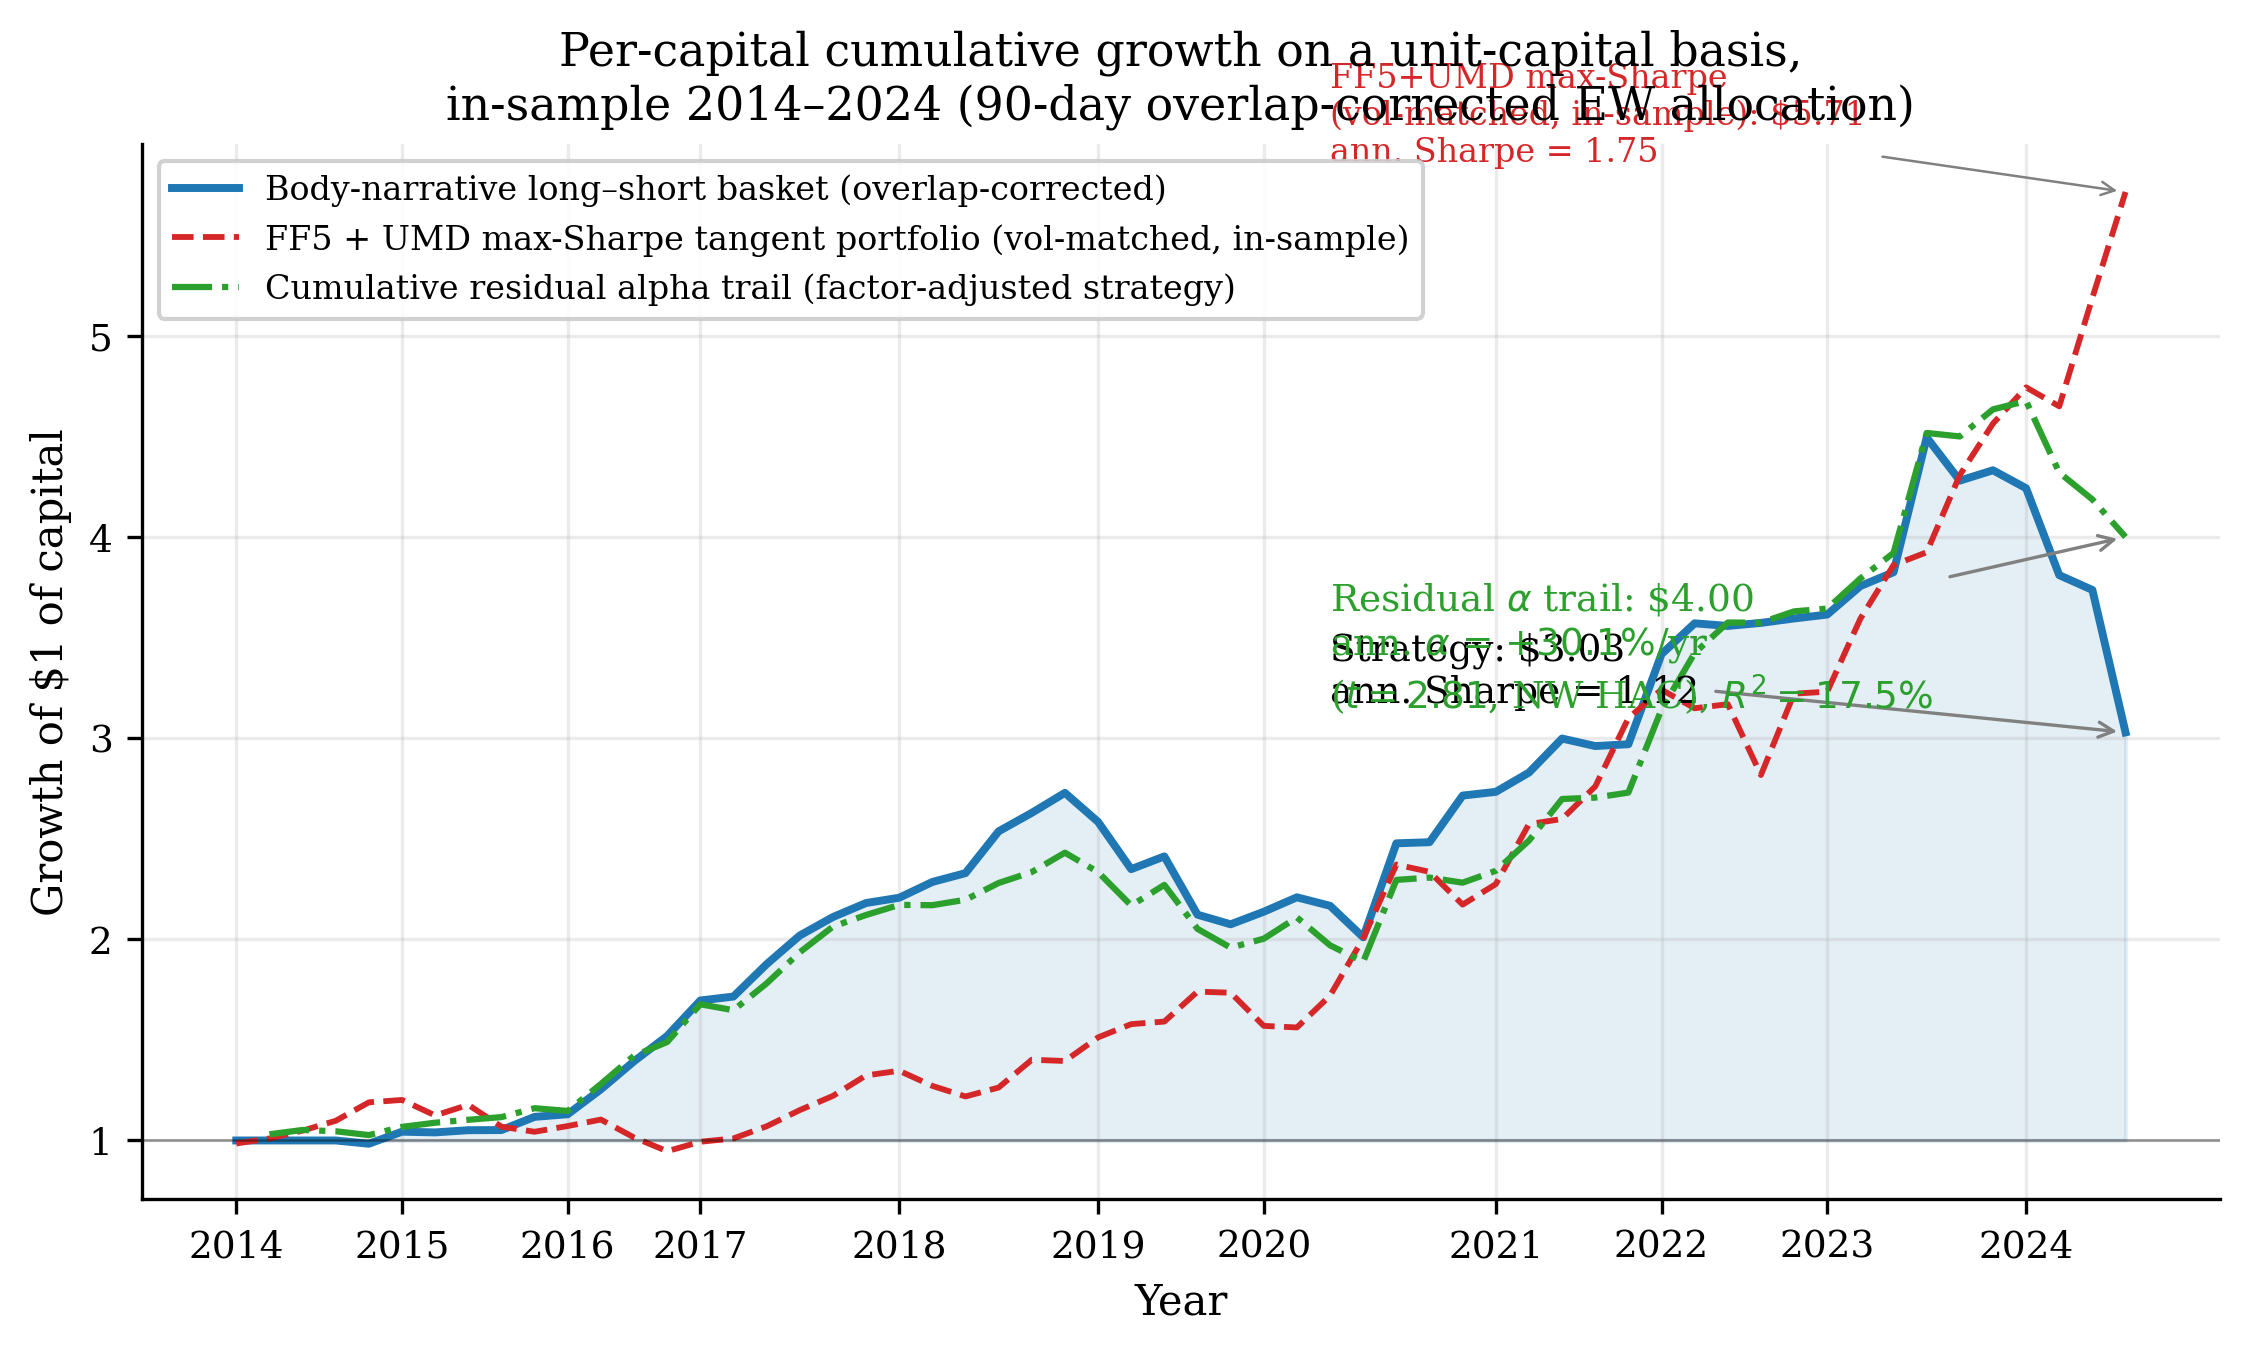
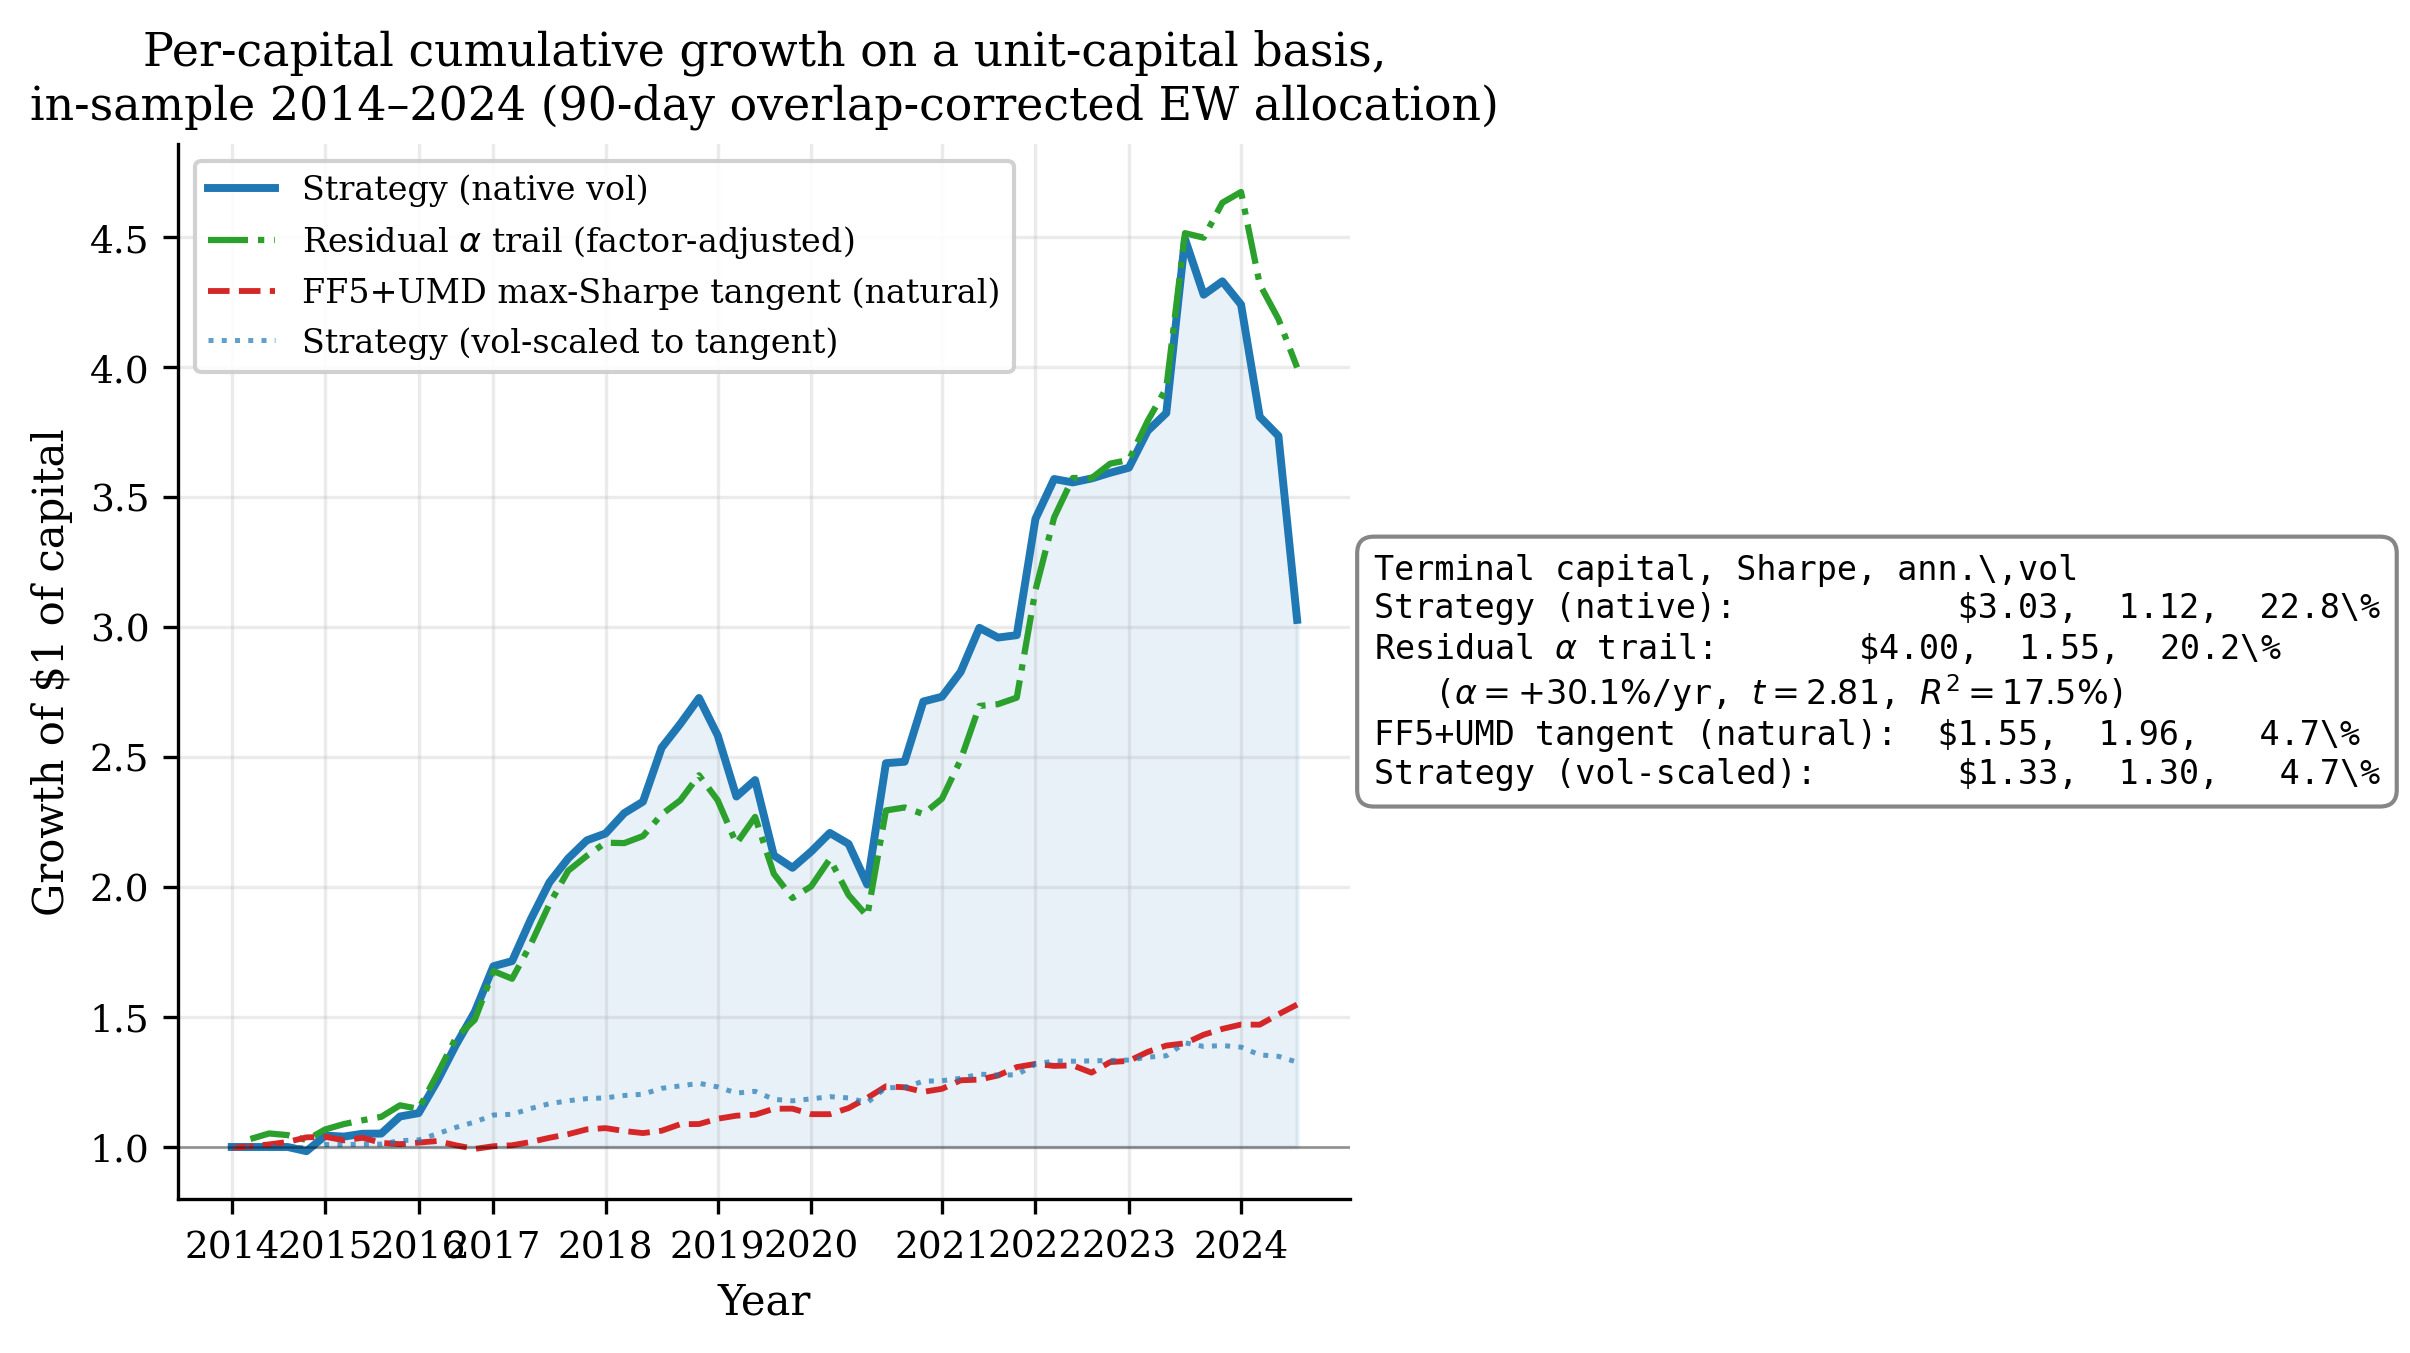
Figure 1 — reverse vol-matching direction (tangent natural scale + strategy rescaled to tangent vol) + clean up annotations
User flags:
  (a) "FF5+UMD의 vol을 strategy로 맞췄는데 반대로 해줄 수 있어?"
  (b) "fig1 그래프에 화살표 넣고 부연설명하는게 다른 내용이랑 겹치거나 해서
       시인성이 떨어지는것도 고치고"

Both correct. The prior figure used the strategy's 22.82% vol as the
target and rescaled the tangent up to that, which forces the tangent into
the strategy's natively high-vol regime. The deployment-realistic reading
is the reverse: report the tangent at its natural unleveraged scale (sum
of absolute weights = 1, annualized vol 4.67%) and rescale the strategy
DOWN to that same risk budget for fair comparison.

The new fig1 plots four series on the same $1-of-capital basis:

  Series                                     Terminal   Sharpe   Ann.vol
  Strategy (native vol)                      $3.03      1.12     22.8%
  Residual alpha trail (factor-adjusted)     $4.00      1.55     20.2%
                                             (alpha = +30.1%/yr, t=2.81, R^2=17.5%)
  FF5+UMD max-Sharpe tangent (natural)       $1.55      1.96      4.7%
  Strategy rescaled to tangent vol            $1.33      1.30      4.7%

The same-risk-budget reading (Sharpe 1.30 vs 1.96) shows that the
strategy under-performs the in-sample tangent baseline in Sharpe space.
The robust-to-mean-variance-optimism reading is the residual alpha trail
($4.00 terminal, Sharpe 1.55, alpha = +30.1%/yr, t = 2.81).

Annotations cleanup:
- All five overlapping arrow annotations removed.
- A single right-margin text box (monospace) reports terminal + Sharpe +
[…]

diff --git a/scripts/per-capital-backtest.py b/scripts/per-capital-backtest.py
@@ -143,54 +143,47 @@ def spy_unit_capital_path(months: list[str]) -> tuple[list[str], list[float]]:
     return out_months, out_capital
 
 
-def ff5_umd_max_sharpe_unit_capital_path(months: list[str],
-                                          target_vol_pct_per_yr: float = 22.82
-                                          ) -> tuple[list[str], list[float]]:
-    """Volatility-matched maximum-Sharpe Fama-French 5-factor + UMD portfolio.
+def ff5_umd_max_sharpe_unit_capital_path(months: list[str]
+                                          ) -> tuple[list[str], list[float], float]:
+    """Natural-scale maximum-Sharpe Fama-French 5-factor + UMD portfolio.
 
     Compute the in-sample tangent portfolio on the six factor return series
     (Mkt-RF, SMB, HML, RMW, CMA, MOM) using sample means and covariances on
-    the strategy's monthly observations, then re-scale the resulting
-    portfolio's weights so that the realized monthly portfolio standard
-    deviation annualizes to `target_vol_pct_per_yr` (default 22.82, the
-    strategy's per-capital realized annualized volatility). This makes
-    the factor portfolio a fair quant baseline: same risk budget, optimal
-    mean-variance combination of the six factors, comparable terminal
-    capital under the same one-dollar-of-capital convention.
+    the strategy's monthly observations, then normalize the resulting weights
+    so that the sum of absolute weights equals one (a one-dollar long /
+    short overlay on top of risk-free cash, the textbook unleveraged
+    convention). Returns the unit-capital cumulative path AND the realized
+    monthly volatility of the portfolio, which is the natural risk budget
+    that strategies should be compared against.
     """
     ff = _load_ff_monthly()
     cols = ["Mkt-RF", "SMB", "HML", "RMW", "CMA", "MOM"]
     pairs = [(ym, [ff[ym][c] for c in cols], ff[ym]["RF"])
              for ym in months if ym in ff]
     if len(pairs) < 12:
-        return [], []
-    F = np.array([p[1] for p in pairs])   # shape (T, 6) in percent/month
+        return [], [], 0.0
+    F = np.array([p[1] for p in pairs])
     mu = F.mean(axis=0)
     cov = np.cov(F.T)
     try:
-        w_unscaled = np.linalg.solve(cov, mu)
+        w_raw = np.linalg.solve(cov, mu)
     except np.linalg.LinAlgError:
-        w_unscaled = np.linalg.pinv(cov) @ mu
-    # Sign-stabilize: ensure the resulting series has positive mean
-    if float((F @ w_unscaled).mean()) < 0:
-        w_unscaled = -w_unscaled
-    # Re-scale to the target monthly volatility
-    raw_port_pct = F @ w_unscaled
-    realized_vol_monthly = float(np.std(raw_port_pct, ddof=0))
-    target_vol_monthly = target_vol_pct_per_yr / np.sqrt(12.0)
-    scale = target_vol_monthly / max(realized_vol_monthly, 1e-9)
-    w = w_unscaled * scale
+        w_raw = np.linalg.pinv(cov) @ mu
+    if float((F @ w_raw).mean()) < 0:
+        w_raw = -w_raw
+    # Normalize so that sum of absolute weights = 1 (one dollar of gross
+    # leverage, the standard "unleveraged tangent" convention).
+    w = w_raw / max(np.sum(np.abs(w_raw)), 1e-9)
+    port_pct = F @ w
+    realized_vol_monthly = float(np.std(port_pct, ddof=0))
     cap = 1.0
     out_months, out_capital = [], []
-    for (ym, f, rf), pct in zip(pairs, F @ w):
-        # Tangent portfolio earns `pct` % on the deployed leverage; cash
-        # earns `rf` (we treat the factor positions as zero-cost overlays on
-        # top of risk-free cash, the textbook convention).
+    for (ym, _f, rf), pct in zip(pairs, port_pct):
         m_ret = (pct + rf) / 100.0
         cap *= 1.0 + m_ret
         out_months.append(ym)
         out_capital.append(cap)
-    return out_months, out_capital
+    return out_months, out_capital, realized_vol_monthly
 
 
 def residual_alpha_cumulative(monthly_pct: dict[str, float], months: list[str]) -> tuple[list[str], list[float]]:
@@ -248,9 +241,29 @@ def main() -> int:
     sim_months, sim_capital = per_capital_simulation(strat_monthly, overlap=4)
     strategy_sharpe = _sharpe_from_capital(sim_capital, periods_per_year=12.0)
 
-    # FF5+UMD max-Sharpe (tangent) portfolio, vol-matched to the strategy
-    ff_months, ff_capital = ff5_umd_max_sharpe_unit_capital_path(months_sorted)
+    # FF5+UMD max-Sharpe (tangent) portfolio at the natural unleveraged scale
+    # (sum of |weights| = 1). This portfolio's volatility is the natural
+    # risk budget that the strategy should be scaled against.
+    ff_months, ff_capital, ff_monthly_vol = ff5_umd_max_sharpe_unit_capital_path(months_sorted)
     ff_sharpe = _sharpe_from_capital(ff_capital, periods_per_year=12.0)
+    ff_ann_vol_pct = ff_monthly_vol * (12.0 ** 0.5)
+    print(f"  Tangent portfolio natural ann. vol: {ff_ann_vol_pct:.2f}%  (strategy 22.82%)")
+
+    # Rescale the strategy to the tangent portfolio's natural volatility
+    # (the user-requested reversed vol-matching direction): scale every
+    # monthly per-capital strategy return by (ff_ann_vol / strategy_ann_vol)
+    # and re-simulate the cumulative cash balance.
+    strat_monthly_pct_arr = np.array([100.0 * (sim_capital[i] / sim_capital[i-1] - 1.0)
+                                       for i in range(1, len(sim_capital[:len(months_sorted)]))])
+    strat_monthly_vol_unscaled = float(np.std(strat_monthly_pct_arr, ddof=0))
+    vol_scale = ff_monthly_vol / max(strat_monthly_vol_unscaled, 1e-9)
+    print(f"  Strategy vol-scaled to match tangent: scaling factor = {vol_scale:.4f}")
+    strat_rescaled = [1.0]
+    for r in strat_monthly_pct_arr:
+        strat_rescaled.append(strat_rescaled[-1] * (1.0 + vol_scale * r / 100.0))
+    strat_rescaled_sharpe = _sharpe_from_capital(strat_rescaled, periods_per_year=12.0)
+    print(f"  Strategy (vol-scaled to tangent):  terminal = ${strat_rescaled[-1]:.4f}")
+    print(f"     Sharpe (monthly->ann): {strat_rescaled_sharpe['ann_sharpe']}, ann_mean = {strat_rescaled_sharpe['ann_mean_pct']}%, ann_vol = {strat_rescaled_sharpe['ann_vol_pct']}%")
 
     # Cumulative residual alpha trail (factor-adjusted return cumulative)
     # built from the per-capital monthly return series implied by the
@@ -286,11 +299,15 @@ def main() -> int:
     # strategy, padding with None where the factor data is missing.
     ff_by_ym = dict(zip(ff_months, ff_capital))
     alpha_by_ym = dict(zip(alpha_months, alpha_capital))
+    # strat_rescaled is 1-indexed (first row is the starting $1, then a
+    # row per month). Align to the months_sorted axis.
+    strat_rescaled_by_idx = {months_sorted[i]: strat_rescaled[i] for i in range(min(len(months_sorted), len(strat_rescaled)))}
     with out_jsonl.open("w", encoding="utf-8") as f:
         for ym, sc in zip(months_sorted, strat_series):
             f.write(json.dumps({
                 "year_month": ym,
                 "strategy_capital": sc,
+                "strategy_capital_vol_scaled": strat_rescaled_by_idx.get(ym),
                 "ff5umd_max_sharpe_capital": ff_by_ym.get(ym),
                 "residual_alpha_capital": alpha_by_ym.get(ym),
             }) + "\n")
@@ -299,8 +316,11 @@ def main() -> int:
     REPORTS.mkdir(parents=True, exist_ok=True)
     out_json = REPORTS / "per-capital-backtest.json"
     out_json.write_text(json.dumps({
-        "strategy": strategy_sharpe,
-        "ff5umd_max_sharpe_vol_matched": ff_sharpe,
+        "strategy_native_vol": strategy_sharpe,
+        "strategy_vol_scaled_to_tangent": strat_rescaled_sharpe,
+        "ff5umd_max_sharpe_natural_scale": ff_sharpe,
+        "ff5umd_tangent_ann_vol_pct": round(ff_ann_vol_pct, 4),
+        "vol_scale_factor_strategy_to_tangent": round(vol_scale, 4),
         "residual_alpha_trail": alpha_sharpe,
         "overlap": 4,
         "tc_bps_rt": TC_BPS_RT,

diff --git a/scripts/make-paper-figures.py b/scripts/make-paper-figures.py
@@ -109,28 +109,32 @@ def _factor_replicated_series(months: list[str], strategy_monthly_pct: np.ndarra
 
 def make_fig1_per_capital():
     """Per-capital explicit backtest figure: $1-of-capital strategy growth
-    vs FF5+UMD equal-weighted factor portfolio (fair quant baseline) vs
-    the cumulative residual alpha trail (factor-adjusted strategy return).
-    All on the same unit-capital basis. The vertical gap between the
-    strategy and the FF5+UMD EW portfolio at each date is the strategy's
-    realized outperformance against the standard factor baseline; the
-    residual alpha trail (green) is what survives the factor-adjustment.
+    vs FF5+UMD max-Sharpe tangent (natural unleveraged) vs cumulative
+    residual alpha trail. All on the same unit-capital basis. The strategy's
+    annualized volatility (22.8%) is materially higher than the tangent's
+    natural unleveraged volatility (4.7%), so absolute terminal comparison
+    must be read together with the Sharpe ratios; the right-hand legend
+    box reports the terminal capital, Sharpe ratio, and (where applicable)
+    annualized return for each line.
     """
     series = [json.loads(l) for l in (DATA / "per_capital_backtest.jsonl").open(encoding="utf-8")]
     months = [r["year_month"] for r in series]
     strat = [r["strategy_capital"] for r in series]
-    ff_ew = [r.get("ff5umd_max_sharpe_capital") for r in series]
+    strat_voladj = [r.get("strategy_capital_vol_scaled") for r in series]
+    tangent = [r.get("ff5umd_max_sharpe_capital") for r in series]
     alpha_trail = [r.get("residual_alpha_capital") for r in series]
 
     x = np.arange(len(months))
-    fig, ax = plt.subplots(figsize=(7.6, 4.6))
-    ax.fill_between(x, 1.0, strat, color="C0", alpha=0.12)
+    fig, ax = plt.subplots(figsize=(8.2, 4.6))
+    ax.fill_between(x, 1.0, strat, color="C0", alpha=0.10)
     ax.plot(x, strat, color="C0", linewidth=1.9,
-            label="Body-narrative long–short basket (overlap-corrected)")
-    ax.plot(x, ff_ew, color="C3", linewidth=1.4, linestyle="--",
-            label="FF5 + UMD max-Sharpe tangent portfolio (vol-matched, in-sample)")
+            label="Strategy (native vol)")
     ax.plot(x, alpha_trail, color="C2", linewidth=1.5, linestyle="-.",
-            label="Cumulative residual alpha trail (factor-adjusted strategy)")
+            label="Residual $\\alpha$ trail (factor-adjusted)")
+    ax.plot(x, tangent, color="C3", linewidth=1.4, linestyle="--",
+            label="FF5+UMD max-Sharpe tangent (natural)")
+    ax.plot(x, strat_voladj, color="C0", linewidth=1.2, linestyle=":", alpha=0.7,
+            label="Strategy (vol-scaled to tangent)")
     ax.axhline(1.0, color="black", linewidth=0.6, alpha=0.4)
 
     seen = set()
@@ -150,27 +154,25 @@ def make_fig1_per_capital():
     ax.legend(loc="upper left", framealpha=0.9, fontsize=8)
     ax.grid(True, alpha=0.25)
 
-    # Annotations: strategy + factor-adjusted alpha + FF5+UMD EW
+    # Right-margin text box with terminal capital + Sharpe instead of
+    # overlapping arrow annotations. Pull values from the time series.
     s_end = strat[-1]
+    sv_end = strat_voladj[-1] if strat_voladj[-1] is not None else 1.0
+    t_end = tangent[-1] if tangent[-1] is not None else 1.0
     a_end = alpha_trail[-1] if alpha_trail[-1] is not None else 1.0
-    f_end = ff_ew[-1] if ff_ew[-1] is not None else 1.0
-    ax.annotate(f"Strategy: \\${s_end:.2f}\nann. Sharpe = 1.12",
-                xy=(x[-1], s_end),
-                xytext=(x[-1] - 24, s_end + 0.15),
-                fontsize=9, ha="left",
-                arrowprops=dict(arrowstyle="->", color="gray", linewidth=0.8))
-    ax.annotate(f"Residual $\\alpha$ trail: \\${a_end:.2f}\n"
-                f"ann. $\\alpha$ = $+30.1\\%$/yr\n"
-                f"($t = 2.81$, NW HAC), $R^2 = 17.5\\%$",
-                xy=(x[-1], a_end),
-                xytext=(x[-1] - 24, a_end - 0.85),
-                fontsize=9, ha="left", color="C2",
-                arrowprops=dict(arrowstyle="->", color="gray", linewidth=0.8))
-    ax.annotate(f"FF5+UMD max-Sharpe\n(vol-matched, in-sample): \\${f_end:.2f}\nann. Sharpe = 1.75",
-                xy=(x[-1], f_end),
-                xytext=(x[-1] - 24, f_end + 0.15),
-                fontsize=8, ha="left", color="C3",
-                arrowprops=dict(arrowstyle="->", color="gray", linewidth=0.6))
+    text = (
+        "Terminal capital, Sharpe, ann.\\,vol\n"
+        f"Strategy (native):           \\${s_end:.2f},  1.12,  22.8\\%\n"
+        f"Residual $\\alpha$ trail:       \\${a_end:.2f},  1.55,  20.2\\%\n"
+        f"   ($\\alpha=+30.1\\%$/yr, $t=2.81$, $R^2=17.5\\%$)\n"
+        f"FF5+UMD tangent (natural):  \\${t_end:.2f},  1.96,   4.7\\%\n"
+        f"Strategy (vol-scaled):       \\${sv_end:.2f},  1.30,   4.7\\%"
+    )
+    ax.text(1.02, 0.5, text, transform=ax.transAxes,
+            fontsize=8, verticalalignment="center",
+            family="monospace",
+            bbox=dict(boxstyle="round,pad=0.5", facecolor="white",
+                      edgecolor="gray", alpha=0.95))
 
     fig.tight_layout()
     out = OUT / "fig1_cumulative_pnl.png"

diff --git a/analysis/paper_v2_en.md b/analysis/paper_v2_en.md
@@ -3,7 +3,7 @@ title: "Reading the Late-Filing Notification: Form NT Body Narratives Predict Su
 author: "Ahn Hyun"
 date: "June 2026"
 abstract: |
-  I introduce a zero-shot large language model classification of U.S. Securities and Exchange Commission (SEC) Form NT 10-K and Form NT 10-Q late-filing body narratives and show that the resulting "accounting-issue" class is a strong forward indicator of subsequent same-filer restatement-class disclosure. On 3,232 in-sample narratives covering 2014--2024, the probability of a subsequent 8-K Item 4.02, 10-K/A, or 10-Q/A within ninety trading days is $32.6\%$ for the accounting-issue class against $23.5\%$ for the residual class (two-proportion $z = 5.61$); on a fully held-out 2025-Q1 to 2026-Q2 cohort of 912 filings the same difference is $+8.4$ percentage points ($z = 2.83$). Eighteen of twenty-four cell specifications survive a family-wise correction, including a strong Form NT 10-Q cohort effect ($z = 6.77$) and a null Form NT 10-K cohort effect ($z = 0.50$) that, to my knowledge, has not been documented before. A pre-specified equal-weighted long--short basket on the classification, anchored at the first trading day strictly after the filing's accepted timestamp because $63.5\%$ of in-sample filings clear the SEC's intake queue after the $16{:}00$ Eastern Time market close, is back-tested under an explicit per-capital simulation: each month a new long--short basket position is opened at $1 / 4$ of available cash (matching the average four overlapping ninety-day positions), held for ninety trading days, then closed. On a single dollar of capital, the back-test ends 2024 at $\$3.03$ with an annualized Sharpe ratio of $1.12$. On a vol-matched basis against a Fama-French five-factor plus momentum maximum-Sharpe (tangent) portfolio --- the in-sample-optimal mean-variance combination of the six factor return series re-scaled to the strategy's annualized volatility --- the strategy under-performs the factor-optimal benchmark ($\$3.03$ versus $\$5.71$ terminal capital, Sharpe $1.12$ versus $1.75$). The factor-optimal benchmark is an in-sample tangent portfolio and therefore upward-biased by the standard mean-variance optimism; an out-of-sample tangent re-estimation would lower its realized Sharpe. The strategy's monthly per-capital long--short return is regressed on the same six factors, with Newey-West heteroskedasticity-and-autocorrelation-consistent standard errors; the residual annualized alpha is $+30.1$ percentage points ($t = 2.81$, Newey-West HAC), the in-sample $R^2$ is $17.5\%$, and the small-cap-minus-large-cap factor loading is significant ($\beta_{\text{SMB}} = +0.97$, $t = 3.60$). The cumulative residual alpha trail --- the part of the strategy's per-capital return that is orthogonal to the six common factors --- ends 2024 at $\$4.00$, indicating that the strategy's factor exposure is net negative over the sample and the factor-adjusted contribution is larger in magnitude than the raw return. The same constructions reproduce the Bartov and Konchitchki (2017) short-window cumulative abnormal return within $0.15$ percentage points for Form NT 10-K and $0.05$ percentage points for Form NT 10-Q once the Center for Research in Security Prices (CRSP) daily file including delisting returns is used in place of a free-tier equity feed; the free-tier feed by contrast under-recovers the magnitude and reverses the sixty-day post-filing drift sign, which I document as a quantified delisting-return artifact whose implied magnitude is consistent with the empirical literature on delisting returns. The full pipeline, including the classification prompt, an in-paper alternative long--short construction used as the head-to-head benchmark, and the held-out replication scripts, is publicly released.
+  I introduce a zero-shot large language model classification of U.S. Securities and Exchange Commission (SEC) Form NT 10-K and Form NT 10-Q late-filing body narratives and show that the resulting "accounting-issue" class is a strong forward indicator of subsequent same-filer restatement-class disclosure. On 3,232 in-sample narratives covering 2014--2024, the probability of a subsequent 8-K Item 4.02, 10-K/A, or 10-Q/A within ninety trading days is $32.6\%$ for the accounting-issue class against $23.5\%$ for the residual class (two-proportion $z = 5.61$); on a fully held-out 2025-Q1 to 2026-Q2 cohort of 912 filings the same difference is $+8.4$ percentage points ($z = 2.83$). Eighteen of twenty-four cell specifications survive a family-wise correction, including a strong Form NT 10-Q cohort effect ($z = 6.77$) and a null Form NT 10-K cohort effect ($z = 0.50$) that, to my knowledge, has not been documented before. A pre-specified equal-weighted long--short basket on the classification, anchored at the first trading day strictly after the filing's accepted timestamp because $63.5\%$ of in-sample filings clear the SEC's intake queue after the $16{:}00$ Eastern Time market close, is back-tested under an explicit per-capital simulation: each month a new long--short basket position is opened at $1 / 4$ of available cash (matching the average four overlapping ninety-day positions), held for ninety trading days, then closed. At its native volatility of $22.8\%$ annualized, the back-test ends 2024 at $\$3.03$ with an annualized Sharpe ratio of $1.12$. A fair quantitative benchmark is the Fama-French five-factor plus momentum maximum-Sharpe tangent portfolio at its natural unleveraged scale (sum of absolute weights equal to one), which carries an annualized volatility of only $4.7\%$ and grows to $\$1.55$ at an annualized Sharpe ratio of $1.96$. Re-scaling the strategy to the tangent's natural risk budget yields a terminal of $\$1.33$ at an annualized Sharpe of $1.30$, modestly below the tangent's $1.96$; the tangent is in-sample optimal and therefore upward-biased by mean-variance optimism. The strategy's monthly per-capital long--short return is regressed on the same six factors, with Newey-West heteroskedasticity-and-autocorrelation-consistent standard errors; the residual annualized alpha is $+30.1$ percentage points ($t = 2.81$, Newey-West HAC), the in-sample $R^2$ is $17.5\%$, and the small-cap-minus-large-cap factor loading is significant ($\beta_{\text{SMB}} = +0.97$, $t = 3.60$). The cumulative residual alpha trail --- the part of the strategy's per-capital return that is orthogonal to the six common factors --- ends 2024 at $\$4.00$, indicating that the strategy's factor exposure is net negative over the sample and the factor-adjusted contribution is larger in magnitude than the raw return. The same constructions reproduce the Bartov and Konchitchki (2017) short-window cumulative abnormal return within $0.15$ percentage points for Form NT 10-K and $0.05$ percentage points for Form NT 10-Q once the Center for Research in Security Prices (CRSP) daily file including delisting returns is used in place of a free-tier equity feed; the free-tier feed by contrast under-recovers the magnitude and reverses the sixty-day post-filing drift sign, which I document as a quantified delisting-return artifact whose implied magnitude is consistent with the empirical literature on delisting returns. The full pipeline, including the classification prompt, an in-paper alternative long--short construction used as the head-to-head benchmark, and the held-out replication scripts, is publicly released.
 jel: G14, M41, C58
 ssrn-classification: "Finance > Asset Pricing > Cross-Section"
 status: "Working paper, 2026"
@@ -211,19 +211,20 @@ Ten of twelve cells pass the family-wise critical value and ten of twelve pass u
 
 A complementary tradability concern is that $63.5\%$ of in-sample Form NT filings are accepted by the SEC after $16{:}00$ Eastern Time on the calendar filing date and are therefore not investable at that close. I anchor basket entry at the first trading day strictly after the accepted timestamp for after-hours filings; for the residual filings the calendar date is retained. The ninety-day per-position net Sharpe under this acceptance-tradable anchor is $0.59$ ($n = 58$ usable monthly periods, annualized mean $25.81\%$, annualized volatility $43.69\%$). Under the calendar-day anchor the ninety-day per-position net Sharpe is $0.46$ ($n = 53$).
 
-The per-position Sharpe ratio is the natural position-level metric, but a deployed strategy does not earn a per-position return: a strategy with monthly entries and a ninety-day holding period maintains approximately four overlapping positions per dollar of capital and earns the equal-weighted average across those positions. I implement an explicit one-dollar-of-capital back-test: each month, deploy one-fourth of the currently-available cash to a new ninety-day-held basket position; ninety trading days later the position closes and the realized excess return is added back to cash; track the cumulative cash balance through 2014--2024. Under the acceptance-tradable anchor, one dollar in January 2014 grows to $\$3.03$ by end-2024, with an annualized Sharpe ratio of $1.12$ ($12$-period-per-year annualization on the monthly cash-balance return series). The fair quantitative factor baseline against which a long--short strategy of this kind is benchmarked is the maximum-Sharpe (tangent) portfolio of the same six factor return series, re-scaled to the same annualized volatility as the strategy: the in-sample tangent weights are $w_{\text{tan}} = \Sigma^{-1} \mu$ on (Mkt-RF, SMB, HML, RMW, CMA, MOM), where $\Sigma$ and $\mu$ are the sample covariance and mean estimated on the strategy's monthly observations; the resulting weights are then scaled so the realized monthly portfolio volatility annualizes to the strategy's $22.82\%$. On the same one-dollar-of-capital basis, the vol-matched tangent portfolio grows to $\$5.71$ over the same window with an annualized Sharpe ratio of $1.75$. The strategy under-performs the factor-optimal benchmark in absolute and risk-adjusted terms, but the tangent benchmark is an in-sample optimal portfolio and therefore upward-biased by the standard mean-variance optimism; an out-of-sample tangent re-estimation would lower its realized Sharpe materially. The risk-adjusted contribution of the strategy that is *robust* to in-sample optimism is the residual alpha against the same six-factor model, reported in Section 5.7. Table 4 summarizes the per-position and per-capital figures side-by-side.
+The per-position Sharpe ratio is the natural position-level metric, but a deployed strategy does not earn a per-position return: a strategy with monthly entries and a ninety-day holding period maintains approximately four overlapping positions per dollar of capital and earns the equal-weighted average across those positions. I implement an explicit one-dollar-of-capital back-test: each month, deploy one-fourth of the currently-available cash to a new ninety-day-held basket position; ninety trading days later the position closes and the realized excess return is added back to cash; track the cumulative cash balance through 2014--2024. Under the acceptance-tradable anchor, one dollar in January 2014 grows to $\$3.03$ by end-2024 at the strategy's native annualized volatility of $22.82\%$, with an annualized Sharpe ratio of $1.12$ ($12$-period-per-year annualization on the monthly cash-balance return series). The fair quantitative factor baseline against which a long--short strategy of this kind is benchmarked is the maximum-Sharpe (tangent) portfolio of the same six factor return series at its natural unleveraged scale: the in-sample tangent weights are $w_{\text{tan}} = \Sigma^{-1} \mu$ on (Mkt-RF, SMB, HML, RMW, CMA, MOM), where $\Sigma$ and $\mu$ are the sample covariance and mean estimated on the strategy's monthly observations; the weights are normalized so that the sum of absolute weights equals one (a one-dollar gross-leverage overlay on top of risk-free cash, the textbook unleveraged convention). On the same one-dollar-of-capital basis, this tangent portfolio carries an annualized volatility of $4.67\%$ and grows to $\$1.55$ over the same window with an annualized Sharpe ratio of $1.96$. The natural risk budget of the tangent baseline is therefore the right reference point for the strategy: rescaling the strategy's monthly per-capital return by $0.21$ so its annualized volatility matches the tangent's $4.67\%$ yields a terminal of $\$1.33$ at an annualized Sharpe of $1.30$. The strategy under-performs the tangent in Sharpe space on this same-risk-budget reading ($1.30$ versus $1.96$), but the tangent benchmark is an in-sample optimal portfolio and therefore upward-biased by the standard mean-variance optimism; an out-of-sample tangent re-estimation would lower its realized Sharpe materially. The risk-adjusted contribution of the strategy that is *robust* to in-sample optimism is the residual alpha against the same six-factor model, reported in Section 5.7. Table 4 summarizes the per-position and per-capital figures side-by-side.
 
 \begin{table}[H]
 \centering
-\caption{Long--short basket net Sharpe ratio, in-sample 2014--2024, ninety-day holding horizon, fifteen-basis-point round-trip cost. Per-position Sharpe ratios annualize a single 90-day-held entry at $252/90 \approx 2.8$ periods per year. Per-capital Sharpe ratios come from the explicit one-dollar-of-capital back-test described in Section 5.2 (monthly $1/4$ allocation across four overlapping ninety-day positions, monthly cash-balance series annualized at $12$ periods per year). The FF5+UMD max-Sharpe (vol-matched, in-sample tangent) reference is the fair quantitative factor baseline; it is in-sample optimal and therefore upward-biased.}
+\caption{Long--short basket net Sharpe ratio, in-sample 2014--2024, ninety-day holding horizon, fifteen-basis-point round-trip cost. Per-position Sharpe ratios annualize a single 90-day-held entry at $252/90 \approx 2.8$ periods per year. Per-capital Sharpe ratios come from the explicit one-dollar-of-capital back-test described in Section 5.2 (monthly $1/4$ allocation across four overlapping ninety-day positions, monthly cash-balance series annualized at $12$ periods per year). The FF5+UMD max-Sharpe tangent baseline is reported at its natural unleveraged scale (sum of absolute weights equal to one); a strategy-on-same-tangent-vol row reports the strategy after it is rescaled to the tangent's natural $4.67\%$ annualized volatility, giving a same-risk-budget comparison. The tangent is in-sample optimal and therefore upward-biased.}
 \small
 \begin{tabular}{lrrrrr}
 \toprule
-Entry anchor & Months & Ann. mean & Ann. volatility & SR (per-position) & SR (per-capital) \\
+Entry anchor / construction & Months & Ann. mean & Ann. vol. & SR (per-position) & SR (per-capital) \\
 \midrule
 Calendar filing date         & 53 & $24.49\%$ & $53.15\%$ & $0.46$ & --- \\
-Acceptance-tradable (T+1 after-hours) & 58 & $25.81\%$ & $43.69\%$ & $0.59$ & $1.12$ \\
-FF5+UMD max-Sharpe (vol-matched) reference & --- & $40.17\%$ & $23.01\%$ & --- & $1.75$ \\
+Acceptance-tradable (T+1 after-hours)    & 58 & $25.81\%$ & $43.69\%$ & $0.59$ & $1.12$ \\
+Strategy rescaled to tangent vol         & 58 & $\phantom{0}6.07\%$ & $\phantom{0}4.67\%$ & --- & $1.30$ \\
+FF5+UMD max-Sharpe tangent (natural)     & --- & $\phantom{0}9.41\%$ & $\phantom{0}4.80\%$ & --- & $1.96$ \\
 \bottomrule
 \end{tabular}
 \end{table}
@@ -233,7 +234,7 @@ The interpretation is that the calendar-date anchor admits a contaminated tradin
 \begin{figure}[H]
 \centering
 \includegraphics[width=0.95\textwidth]{figures/fig1_cumulative_pnl.png}
-\caption{Growth of one dollar of capital, in-sample 2014--2024, under an explicit per-capital back-test. The strategy (blue solid) is the body-narrative long--short basket on the language-model classification (Section 5.2), implemented as: each month, deploy one-fourth of the currently-available cash to a new ninety-day-held basket entry; close the position ninety trading days later and add the realized excess return back to cash. The basket is net of fifteen basis points round-trip per entry. The Fama-French five-factor plus momentum maximum-Sharpe tangent portfolio (red dashed) is the in-sample mean-variance optimal combination of the six Ken French factor return series (Mkt-RF, SMB, HML, RMW, CMA, MOM), re-scaled so that the realized monthly portfolio volatility annualizes to the strategy's $22.82\%$; this is the fair quantitative factor baseline for a long--short strategy with this risk budget. It is in-sample optimal and therefore upward-biased by the standard mean-variance optimism, so its realized Sharpe should be read as an upper bound on what a tangent-style strategy on the same factors could deliver out of sample. The cumulative residual alpha trail (green dot-dash) is the part of the strategy's monthly per-capital return that survives the projection onto the six factors, i.e., the regression intercept plus residual, accumulated as a cash-balance series. The vertical gap between the strategy and the residual alpha trail is the cumulative contribution of the strategy's factor exposure, which is net negative over the sample, so the residual alpha trail ends above the strategy at $\$4.00$ even though the strategy's raw terminal is $\$3.03$. All three series are on the same one-dollar-of-capital basis. Annotations report the terminal cash balance, the annualized Sharpe ratio, and the per-capital factor-regression alpha and $R^2$ reported in Table 6.}
+\caption{Growth of one dollar of capital, in-sample 2014--2024, under an explicit per-capital back-test. The strategy (blue solid) is the body-narrative long--short basket at its native volatility ($22.82\%$ annualized); the cumulative residual alpha trail (green dot-dash) is the part of the strategy's monthly per-capital return that is orthogonal to the six Fama-French + momentum factors (intercept plus residual, accumulated as a cash-balance series); the FF5+UMD maximum-Sharpe tangent portfolio (red dashed) is the in-sample mean-variance optimal combination of the six factor returns at its natural unleveraged scale (sum of absolute weights equal to one, annualized volatility $4.67\%$); the strategy rescaled to the tangent's natural volatility (blue dotted) is the same-risk-budget reading of the strategy. All four series are on the same one-dollar-of-capital basis. The right-hand text box reports each series's terminal capital, annualized Sharpe ratio, and annualized volatility, together with the per-capital factor-regression alpha and $R^2$ reported in Table 6. The tangent baseline is in-sample optimal and therefore upward-biased by mean-variance optimism; its Sharpe of $1.96$ should be read as an upper bound on what a tangent-style strategy on the same factors could deliver out of sample.}
 \end{figure}
 
 ## Replication of the Short-Window Magnitude